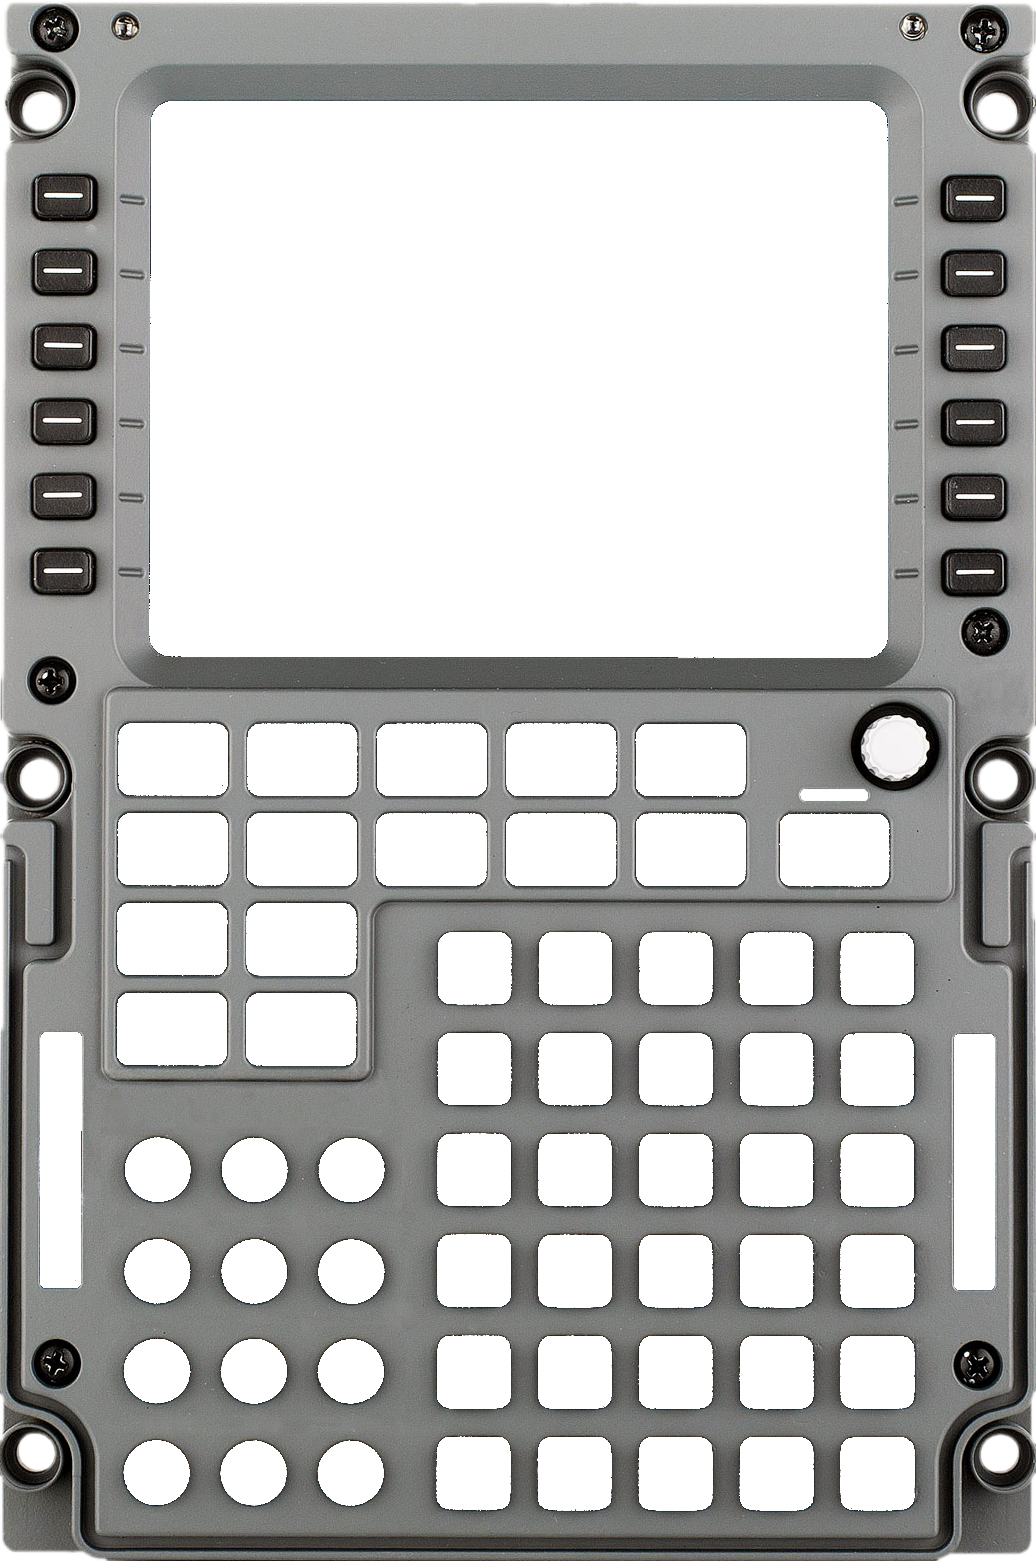
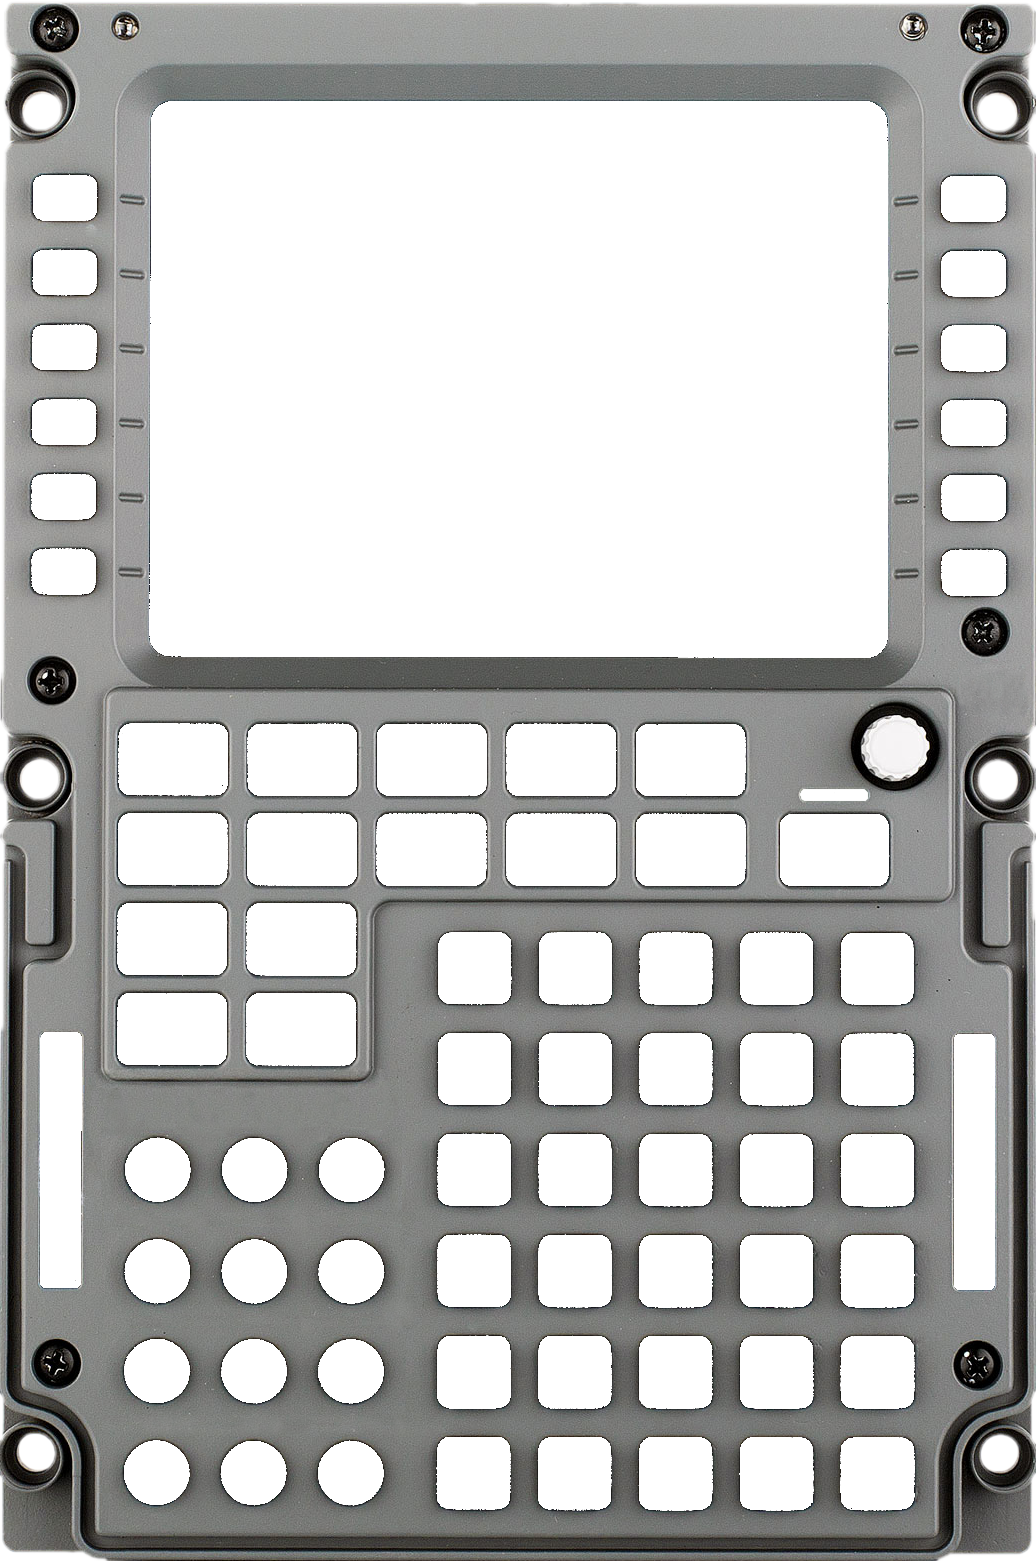
Add line-select-keys

Changed region(s): [[0.8958, 0.0922, 0.9884, 0.3997], [0.0309, 0.0922, 0.0927, 0.3997]]

diff --git a/index.html b/index.html
@@ -47,6 +47,19 @@
         <img class="Fmc__Case" src="assets/images/case.png" />
 
         <div class="Fmc__Buttons">
+          <span class="Fmc__Button Fmc__Button--Lsk Fmc__Button--Lsk1L" data-key="lsk-1l"></span>
+          <span class="Fmc__Button Fmc__Button--Lsk Fmc__Button--Lsk2L" data-key="lsk-2l"></span>
+          <span class="Fmc__Button Fmc__Button--Lsk Fmc__Button--Lsk3L" data-key="lsk-3l"></span>
+          <span class="Fmc__Button Fmc__Button--Lsk Fmc__Button--Lsk4L" data-key="lsk-4l"></span>
+          <span class="Fmc__Button Fmc__Button--Lsk Fmc__Button--Lsk5L" data-key="lsk-5l"></span>
+          <span class="Fmc__Button Fmc__Button--Lsk Fmc__Button--Lsk6L" data-key="lsk-6l"></span>
+          <span class="Fmc__Button Fmc__Button--Lsk Fmc__Button--Lsk1R" data-key="lsk-1r"></span>
+          <span class="Fmc__Button Fmc__Button--Lsk Fmc__Button--Lsk2R" data-key="lsk-2r"></span>
+          <span class="Fmc__Button Fmc__Button--Lsk Fmc__Button--Lsk3R" data-key="lsk-3r"></span>
+          <span class="Fmc__Button Fmc__Button--Lsk Fmc__Button--Lsk4R" data-key="lsk-4r"></span>
+          <span class="Fmc__Button Fmc__Button--Lsk Fmc__Button--Lsk5R" data-key="lsk-5r"></span>
+          <span class="Fmc__Button Fmc__Button--Lsk Fmc__Button--Lsk6R" data-key="lsk-6r"></span>
+
           <span class="Fmc__Button Fmc__Button--Fn Fmc__Button--InitRef" data-key="init-ref"><span>Init<br>Ref</span></span>
           <span class="Fmc__Button Fmc__Button--Fn Fmc__Button--Rte" data-key="rte"><span>Rte</span></span>
           <span class="Fmc__Button Fmc__Button--Fn Fmc__Button--Clb" data-key="clb"><span>Clb</span></span>

diff --git a/assets/css/fmc.css b/assets/css/fmc.css
@@ -249,6 +249,18 @@ body  {
   margin-top: 1px;
 }
 
+.Fmc__Button--Lsk {
+  width: 60px;
+  height: 42px;
+  background-image: url(../images/button-lsk.png);
+  background-repeat: no-repeat;
+  background-size: 100%;
+}
+
+.Fmc__Button--Lsk:active {
+  margin-top: 0;
+}
+
 .Fmc__Button--Fn {
   width: 106px;
   height: 69px;
@@ -287,6 +299,20 @@ body  {
   border: 4px solid #fff;
   border-radius: 5px;
 }
+
+.Fmc__Button--Lsk1L { top: 178px; left: 34px; }
+.Fmc__Button--Lsk2L { top: 253px; left: 34px; }
+.Fmc__Button--Lsk3L { top: 328px; left: 34px; }
+.Fmc__Button--Lsk4L { top: 403px; left: 34px; }
+.Fmc__Button--Lsk5L { top: 478px; left: 34px; }
+.Fmc__Button--Lsk6L { top: 553px; left: 34px; }
+
+.Fmc__Button--Lsk1R { top: 178px; left: 944px; }
+.Fmc__Button--Lsk2R { top: 253px; left: 944px; }
+.Fmc__Button--Lsk3R { top: 328px; left: 944px; }
+.Fmc__Button--Lsk4R { top: 403px; left: 944px; }
+.Fmc__Button--Lsk5R { top: 478px; left: 944px; }
+.Fmc__Button--Lsk6R { top: 553px; left: 944px; }
 
 .Fmc__Button--InitRef  { top: 726px; left: 119px; }
 .Fmc__Button--Rte      { top: 726px; left: 249px; }
